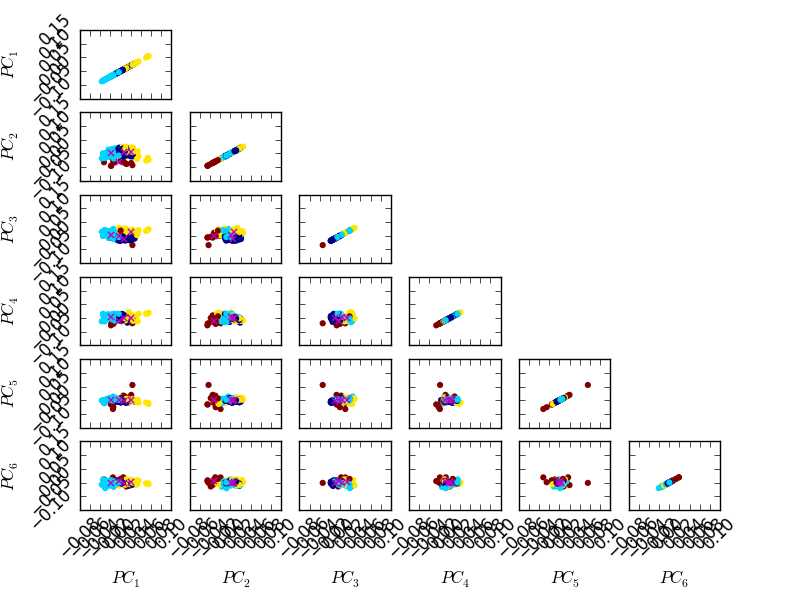
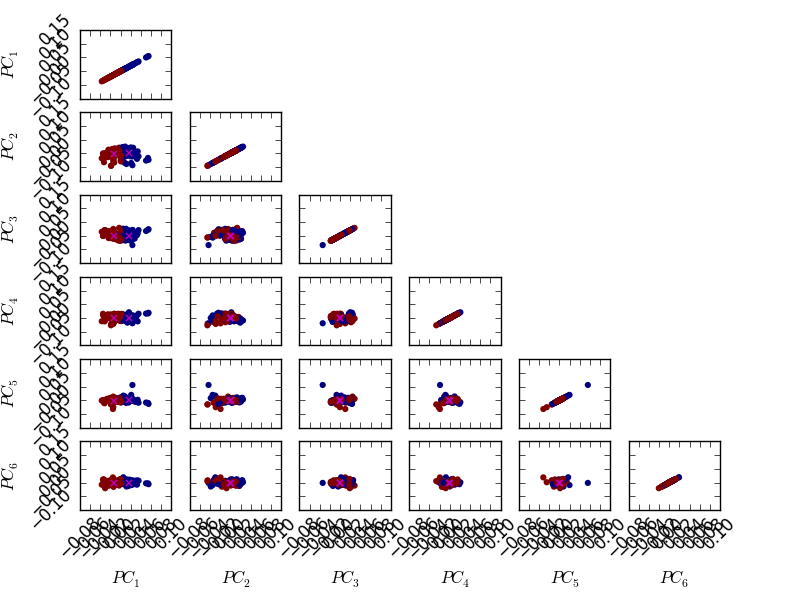
add keys of KMeans

diff --git a/pipeline/CODE/clustering/KMeans.py b/pipeline/CODE/clustering/KMeans.py
@@ -10,7 +10,7 @@ def clustering(data, params):
 
     # apply KMeans to reduced data
 
-    clusters = KMeans(n_clusters=n_clusters, init='k-means++', tol=tol)
+    clusters = KMeans(n_clusters=n_clusters, init=init, tol=tol)
     clusters.fit(data)
 
     return [clusters.cluster_centers_.T, clusters.labels_]

diff --git a/pipeline/config_clustering.py b/pipeline/config_clustering.py
@@ -21,5 +21,5 @@ CLUSTERING_PARS		= [.05]
 CLUSTERING_METHOD	= 'KMeans'
 CLUSTERING_PARS		= []
 
-CLUSTERING_METHOD	= 'AgglomerativeClustering'
+#CLUSTERING_METHOD	= 'AgglomerativeClustering'
 CLUSTERING_PARS		= []

diff --git a/pipeline/CODE/management/params_clust.py b/pipeline/CODE/management/params_clust.py
@@ -7,7 +7,9 @@ MeanShift_dict=dict([
 ])
 
 KMeans_dict=dict([
-	[ 'n_clusters'	, 4	],
+	[ 'n_clusters'	, 2		],
+	[ 'init'	, '"k-means++"'	],
+	[ 'tol'		, 1e-4		],
 ])
 
 AgglomerativeClustering_dict=dict([
